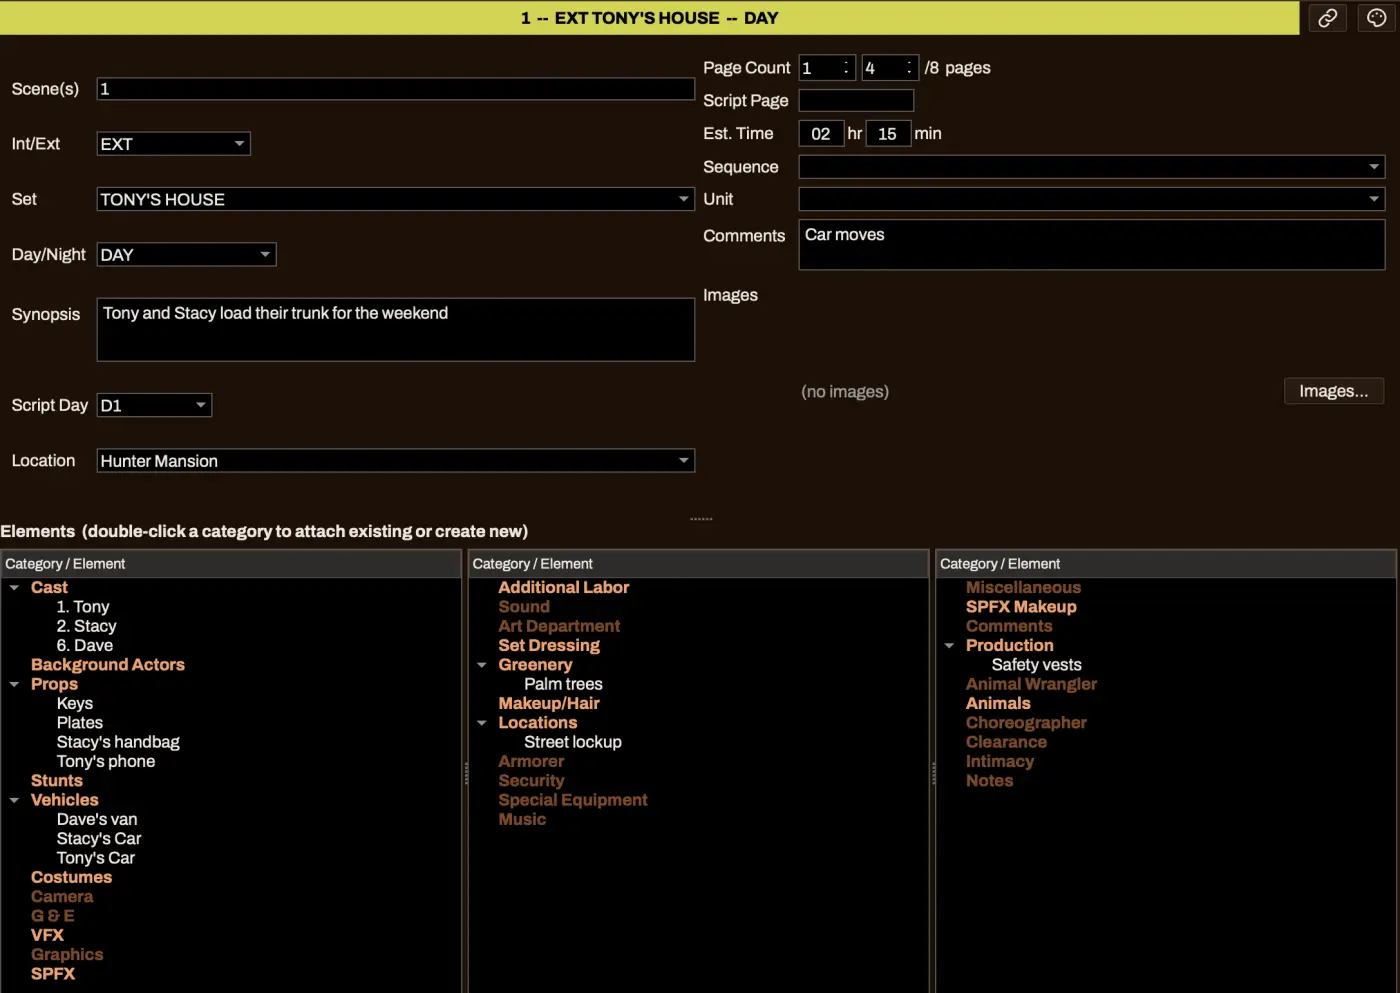
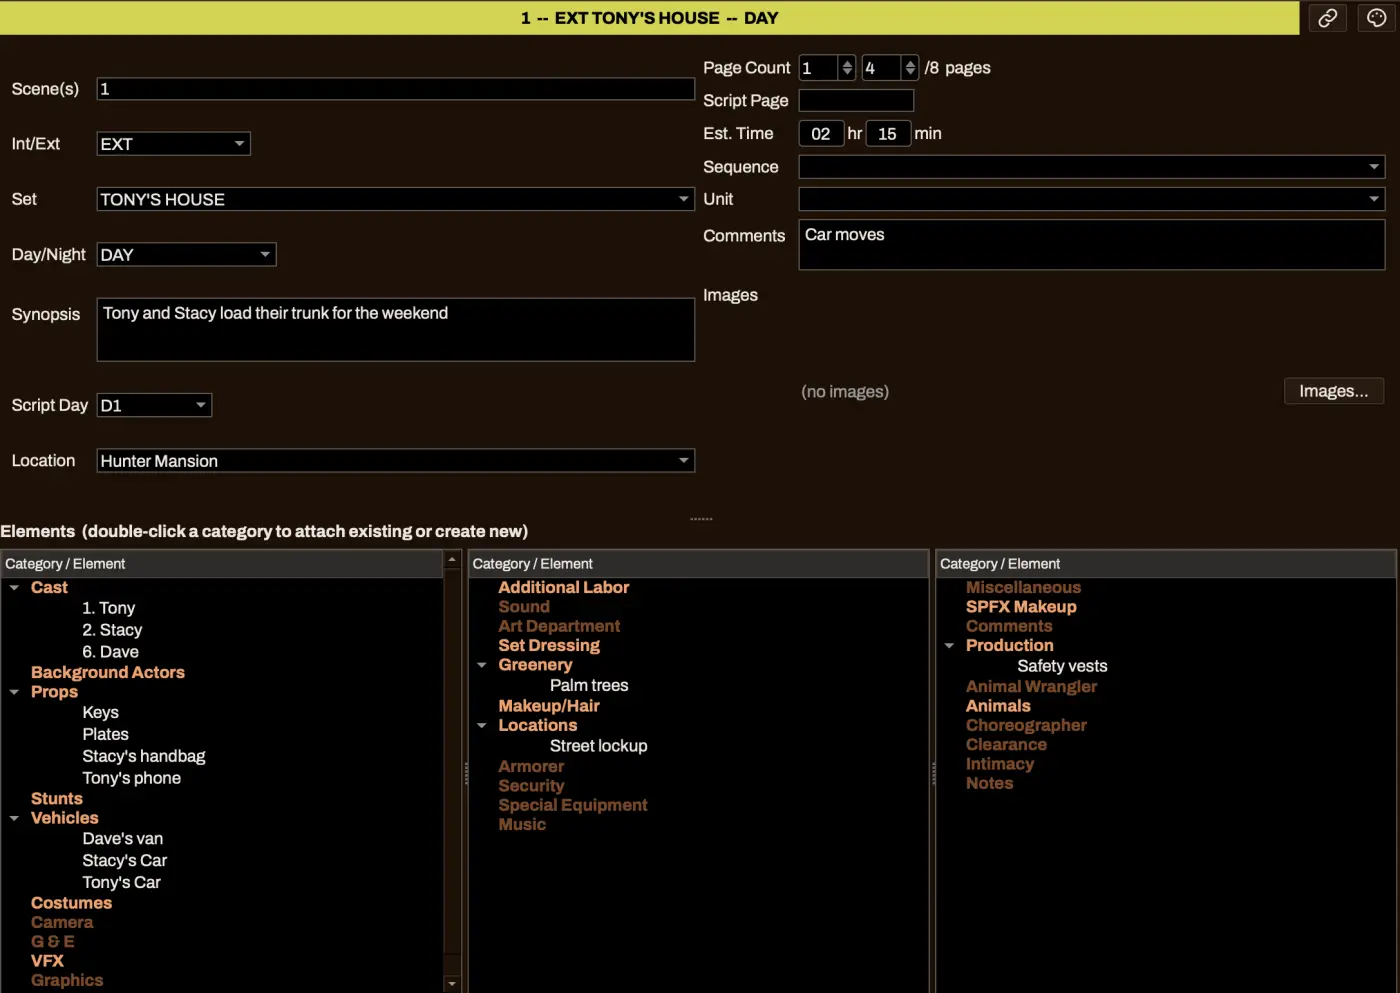
Abba Schedule 1: mac build 9, windows build 8

Changed region(s): [[0.0, 0.5932, 0.1536, 0.999], [0.3071, 0.5619, 0.4607, 0.999], [0.6757, 0.6556, 0.7986, 0.8117]]

diff --git a/index.html b/index.html
@@ -295,11 +295,11 @@
     <p class="lede">Film and TV scheduling for Mac and Windows: breakdowns, stripboards, a shooting calendar, Day Out of Days, and reports you design yourself.</p>
     <div class="downloads">
       <div class="download mac">
-        <a class="btn" href="https://github.com/christianabbat-glitch/abbaschedule/releases/download/v0.9-beta1-build8/Abba-Schedule-1-0.9-beta-1-build-8.dmg" id="download-mac">
+        <a class="btn" href="https://github.com/christianabbat-glitch/abbaschedule/releases/download/v0.9-beta1-build9/Abba-Schedule-1-0.9-beta-1-build-9.dmg" id="download-mac">
           <svg viewBox="0 0 20 20" fill="none" stroke="currentColor" stroke-width="2" stroke-linecap="round" stroke-linejoin="round" aria-hidden="true"><path d="M10 3v10M5.5 8.5 10 13l4.5-4.5M4 17h12"/></svg>
           Download for Mac
         </a>
-        <p class="meta">Version 0.9 beta 1 (build 8) · 41 MB disk image</p>
+        <p class="meta">Version 0.9 beta 1 (build 9) · 41 MB disk image</p>
         <p class="req"><strong>A Mac with Apple silicon</strong> (M1 or later) and macOS 13 Ventura or newer. Intel Macs aren't supported yet.</p>
       </div>
       <div class="download windows">
@@ -406,7 +406,7 @@
   <section id="feedback" class="feedback" aria-labelledby="feedback-title">
     <h2 id="feedback-title">Found a problem?</h2>
     <p>Bugs, confusing bits, anything that slows you down. Say what you were doing, what happened and what you expected. A screenshot or your .as1 file helps a lot.</p>
-    <a class="btn secondary" href="mailto:christianabbat@gmail.com?subject=Abba%20Schedule%201%20(0.9%20beta%201%20%28build%208%29)%20feedback&amp;body=What%20were%20you%20doing%3F%0A%0AWhat%20happened%2C%20and%20what%20did%20you%20expect%3F%0A%0AYour%20computer%20(Mac%20or%20PC)%20and%20its%20system%20version%3A%0A%0A">Email feedback</a>
+    <a class="btn secondary" href="mailto:christianabbat@gmail.com?subject=Abba%20Schedule%201%20(0.9%20beta%201%20%28build%209%29)%20feedback&amp;body=What%20were%20you%20doing%3F%0A%0AWhat%20happened%2C%20and%20what%20did%20you%20expect%3F%0A%0AYour%20computer%20(Mac%20or%20PC)%20and%20its%20system%20version%3A%0A%0A">Email feedback</a>
   </section>
 </main>
 <script>
